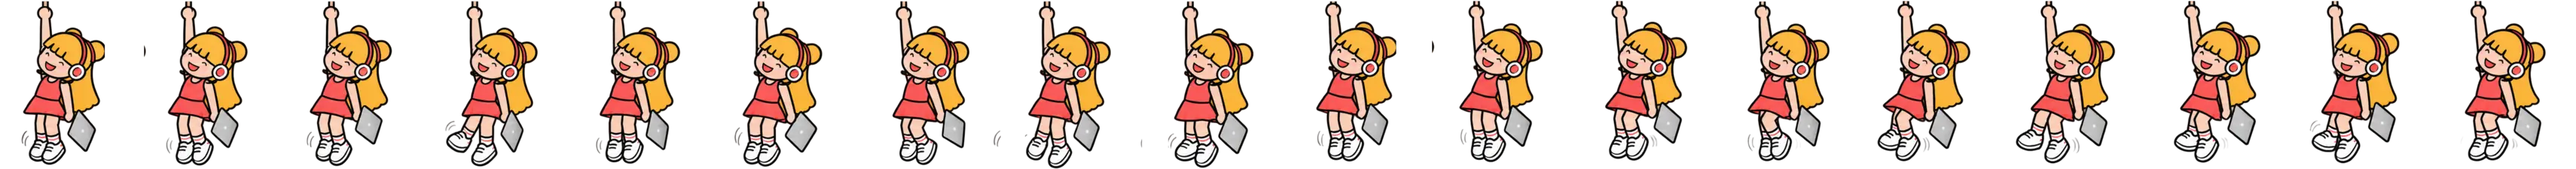
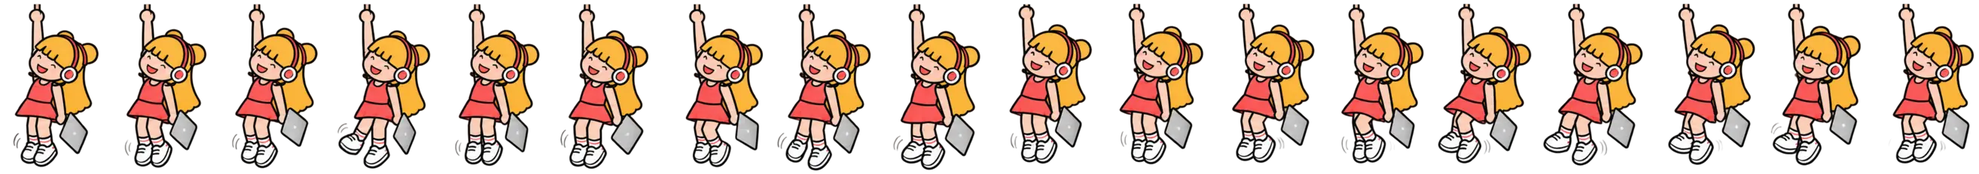
Carried buddy: gentle swing (max ~18deg), full uncropped frames, mirrored on the left half

diff --git a/assets/js/avatar.js b/assets/js/avatar.js
@@ -27,7 +27,7 @@
 		dismissed = false;
 
 	// Hanging sprite: where her raised hand is inside the 95x112 frame (see main.css).
-	var HAND_X = 30, HAND_Y = 2,
+	var HAND_X = 24, HAND_Y = 3,
 		SIT_W = 57, SIT_H = 88;
 
 	// --- Swing while carried: her body is a weight on a rod hanging from the cursor ---
@@ -65,10 +65,11 @@
 			swing.bx = swing.px + dx / len * swing.rod;
 			swing.by = swing.py + dy / len * swing.rod;
 
-			// body to the right of the hand = rotate counter-clockwise
-			var angle = -Math.atan2(swing.bx - swing.px, swing.by - swing.py) * 180 / Math.PI;
-			angle = Math.max(-75, Math.min(75, angle));
-			sprite.style.transform = 'rotate(' + angle.toFixed(2) + 'deg)';
+			// body to the right of the hand = rotate counter-clockwise; squashed to a gentle +-18 degrees
+			var raw = -Math.atan2(swing.bx - swing.px, swing.by - swing.py) * 180 / Math.PI,
+				angle = 18 * Math.tanh(raw / 30);
+
+			sprite.style.transform = 'rotate(' + angle.toFixed(2) + 'deg)' + (buddy.classList.contains('is-flipped') ? ' scaleX(-1)' : '');
 
 			swing.raf = window.requestAnimationFrame(step);
 		})(swing.last);
@@ -176,15 +177,22 @@
 		return Math.max(min, Math.min(max, value));
 	}
 
-	function updateBubbleSide() {
-		var r = buddy.getBoundingClientRect();
-		buddy.classList.toggle('bubble-right', r.left + r.width / 2 < window.innerWidth / 2);
+	// Left half of the screen: bubble opens to her right and she is mirrored to face the page.
+	function updateSide(centerX) {
+		if (centerX === undefined) {
+			var r = buddy.getBoundingClientRect();
+			centerX = r.left + r.width / 2;
+		}
+
+		var left = centerX < window.innerWidth / 2;
+		buddy.classList.toggle('bubble-right', left);
+		buddy.classList.toggle('is-flipped', left);
 	}
 
 	function placeSitting(x, y) {
 		buddy.style.left = clamp(x, 4, window.innerWidth - SIT_W - 4) + 'px';
 		buddy.style.top = clamp(y, 60, window.innerHeight - SIT_H - 4) + 'px';
-		updateBubbleSide();
+		updateSide();
 	}
 
 	// Load the hanging frames before the first drag so she never blinks.
@@ -246,6 +254,7 @@
 		if (pointer.dragging) {
 			buddy.style.left = (event.clientX - HAND_X) + 'px';
 			buddy.style.top = (event.clientY - HAND_Y) + 'px';
+			updateSide(event.clientX);
 			moveSwing(event.clientX, event.clientY);
 		}
 	});

diff --git a/assets/css/main.css b/assets/css/main.css
@@ -4894,8 +4894,8 @@ input, select, textarea {
 		}
 
 		.contact-buddy.is-dragging .buddy-sprite {
-			width: 95px;
-			height: 112px;
+			width: 73px;
+			height: 116px;
 			background-image: url("../../images/avatar-hang.webp");
 			background-size: 1800% 100%;
 			-moz-animation: buddy-hang 1.8s step-end infinite;
@@ -5020,9 +5020,22 @@ input, select, textarea {
 
 	/* while carried she swings around her hand (rotation set by avatar.js) */
 	.contact-buddy.is-dragging .buddy-sprite {
-		-moz-transform-origin: 30px 2px;
-		-webkit-transform-origin: 30px 2px;
-		-ms-transform-origin: 30px 2px;
-		transform-origin: 30px 2px;
+		-moz-transform-origin: 24px 3px;
+		-webkit-transform-origin: 24px 3px;
+		-ms-transform-origin: 24px 3px;
+		transform-origin: 24px 3px;
 		will-change: transform;
+	}
+
+	/* on the left half of the screen she is mirrored so she faces the page */
+	.contact-buddy.is-flipped .buddy-sprite {
+		-moz-transform: scaleX(-1);
+		-webkit-transform: scaleX(-1);
+		-ms-transform: scaleX(-1);
+		transform: scaleX(-1);
+	}
+
+/* the theme clips buttons; let her swing and mirror outside her button box */
+	.contact-buddy .buddy-toggle {
+		overflow: visible;
 	}

diff --git a/index.html b/index.html
@@ -69,7 +69,7 @@
 		}
 		</script>
 
-		<link rel="stylesheet" href="assets/css/main.css?v=20261020c" />
+		<link rel="stylesheet" href="assets/css/main.css?v=20261020d" />
 		<noscript><link rel="stylesheet" href="assets/css/noscript.css" /></noscript>
 	</head>
 	<body class="landing is-preload">
@@ -299,7 +299,7 @@
 			<script src="assets/js/breakpoints.min.js"></script>
 			<script src="assets/js/util.js"></script>
 			<script src="assets/js/main.js?v=20261020"></script>
-			<script src="assets/js/avatar.js?v=20261020c"></script>
+			<script src="assets/js/avatar.js?v=20261020d"></script>
 
 	</body>
 </html>
